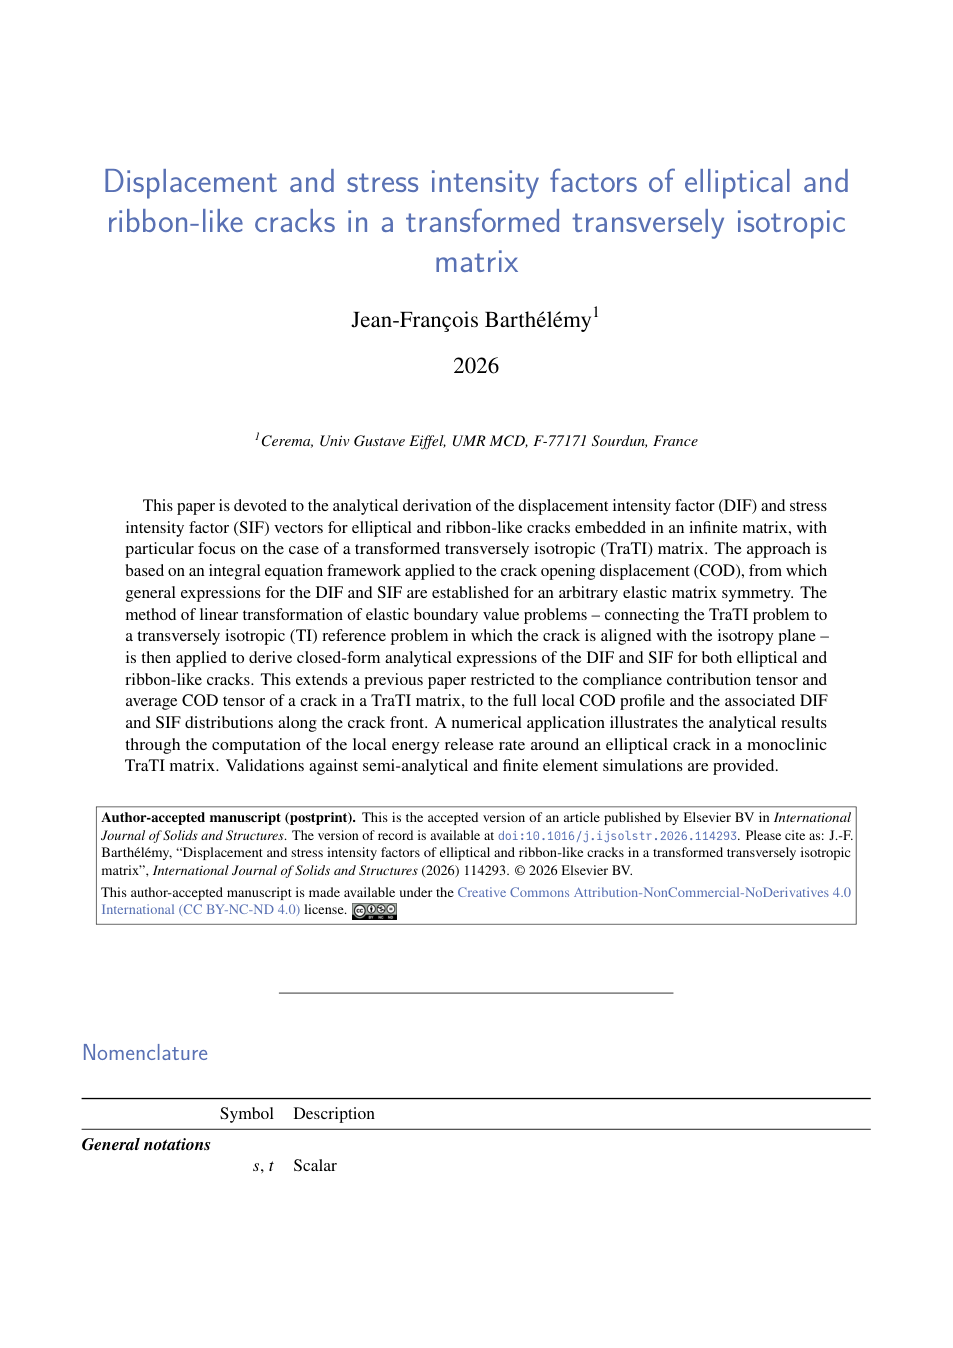
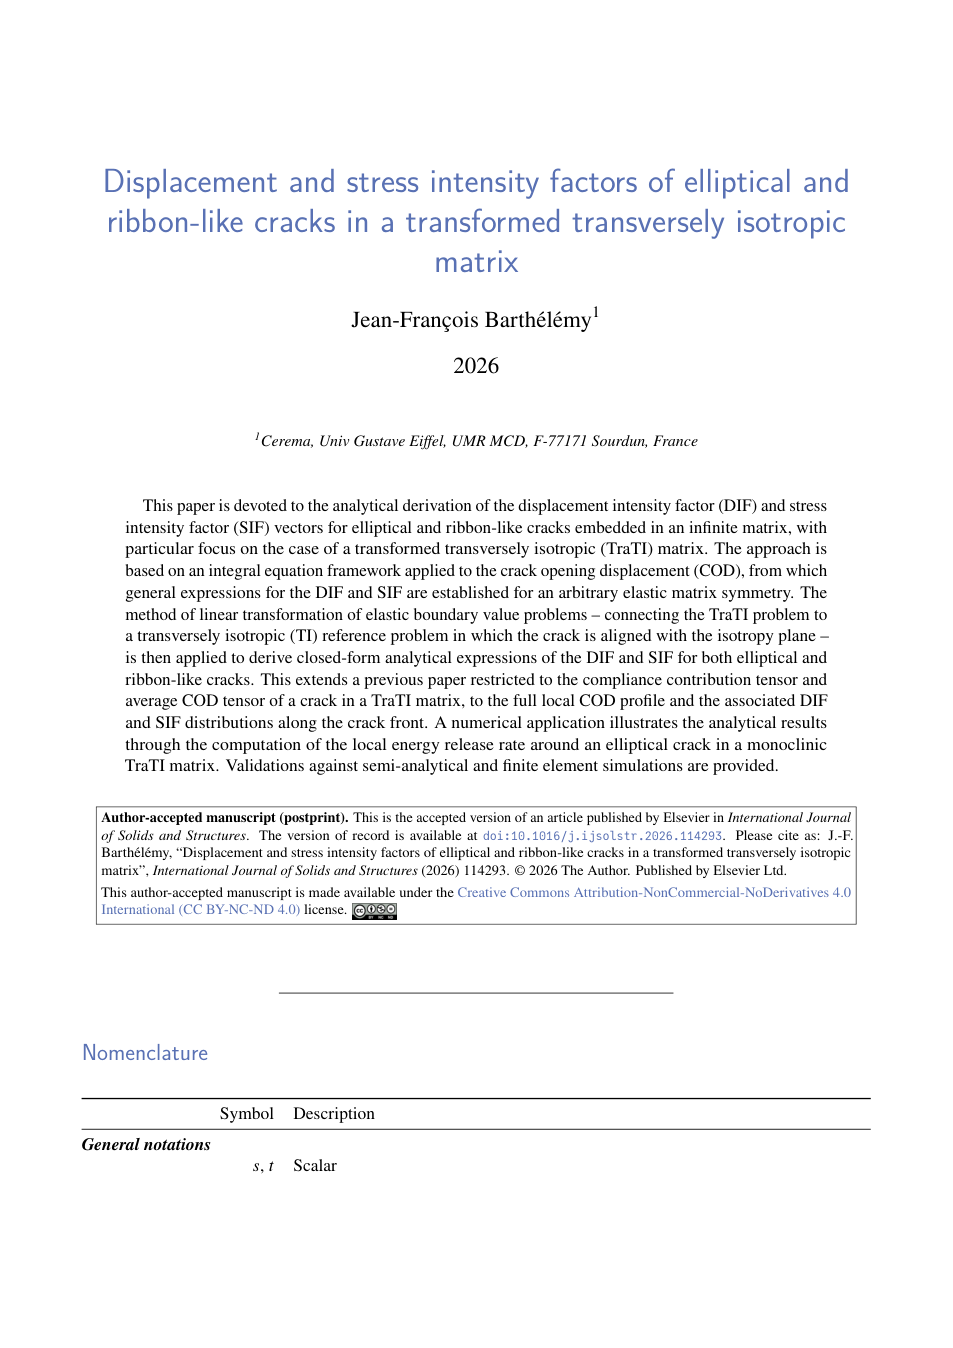
Update postprint manuscript details and add new files for SifAniso

Changed region(s): [[0.0913, 0.592, 0.8825, 0.6543]]

diff --git a/postprints/sifaniso/index.html b/postprints/sifaniso/index.html
@@ -271,7 +271,7 @@ window.Quarto = {
 
 
 <div class="postprint-banner">
-<p><strong>Author-accepted manuscript (postprint).</strong> This is the accepted version of an article published by Elsevier BV in <em>International Journal of Solids and Structures</em>. The version of record is available at <a href="https://doi.org/10.1016/j.ijsolstr.2026.114293">doi:10.1016/j.ijsolstr.2026.114293</a>. Please cite as: J.-F. Barthélémy, “Displacement and stress intensity factors of elliptical and ribbon-like cracks in a transformed transversely isotropic matrix”, <em>International Journal of Solids and Structures</em> (2026) 114293. © 2026 Elsevier BV.</p>
+<p><strong>Author-accepted manuscript (postprint).</strong> This is the accepted version of an article published by Elsevier in <em>International Journal of Solids and Structures</em>. The version of record is available at <a href="https://doi.org/10.1016/j.ijsolstr.2026.114293">doi:10.1016/j.ijsolstr.2026.114293</a>. Please cite as: J.-F. Barthélémy, “Displacement and stress intensity factors of elliptical and ribbon-like cracks in a transformed transversely isotropic matrix”, <em>International Journal of Solids and Structures</em> (2026) 114293. © 2026 The Author. Published by Elsevier Ltd.</p>
 <p>This author-accepted manuscript is made available under the <a href="https://creativecommons.org/licenses/by-nc-nd/4.0/">Creative Commons Attribution-NonCommercial-NoDerivatives 4.0 International (CC BY-NC-ND 4.0)</a> license. <a href="https://creativecommons.org/licenses/by-nc-nd/4.0/"><img src="cc-by-nc-nd.png" height="24" alt="CC BY-NC-ND 4.0"></a></p>
 </div>
 <hr>
